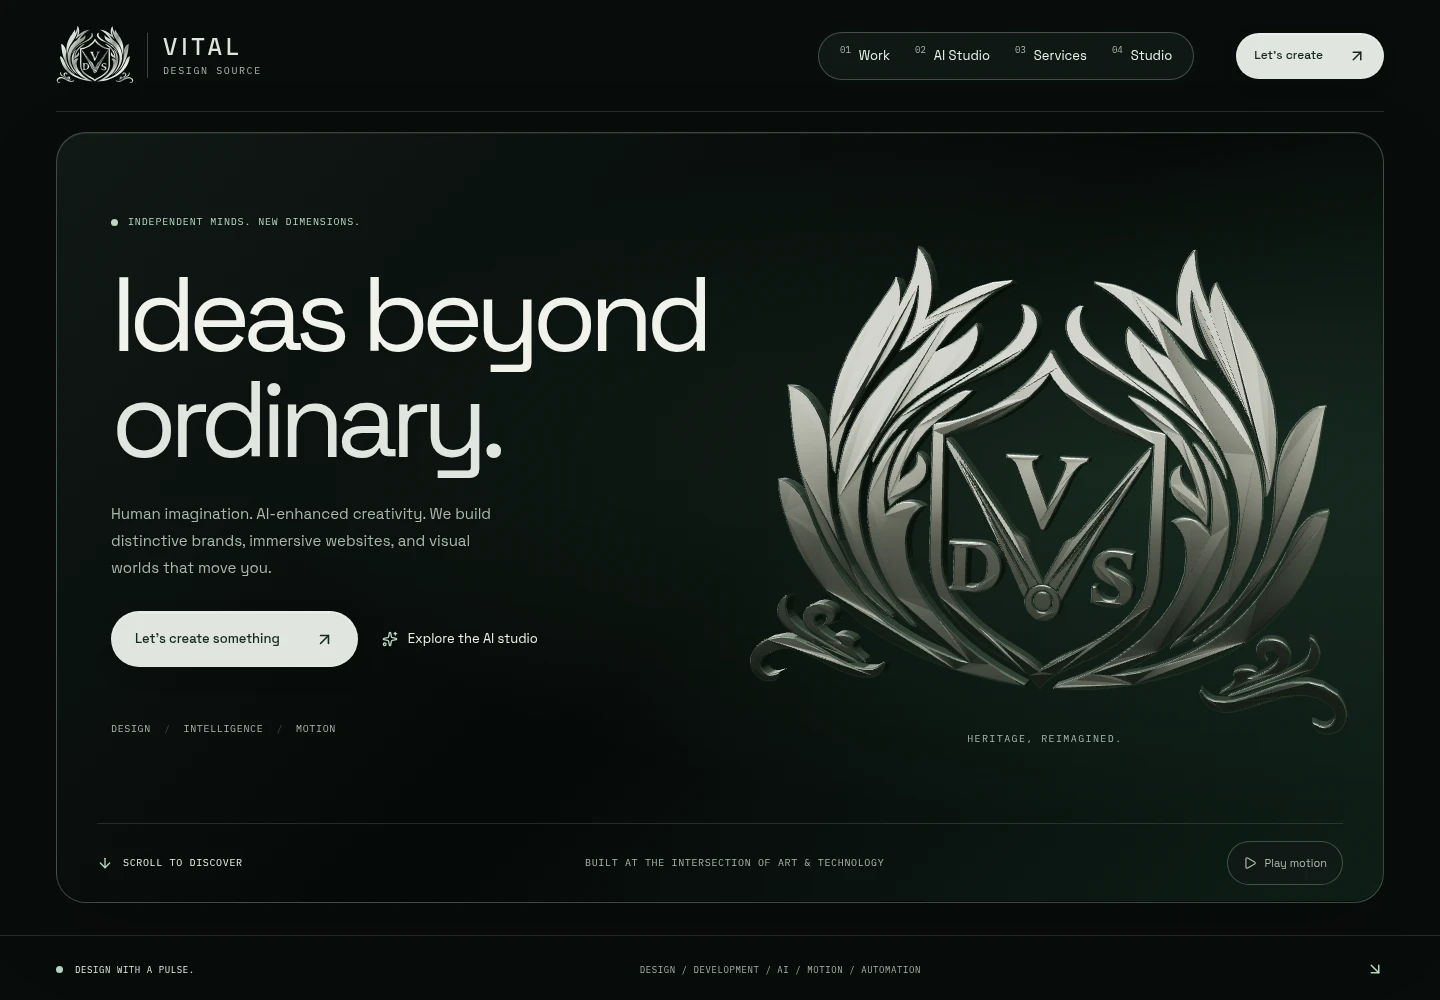
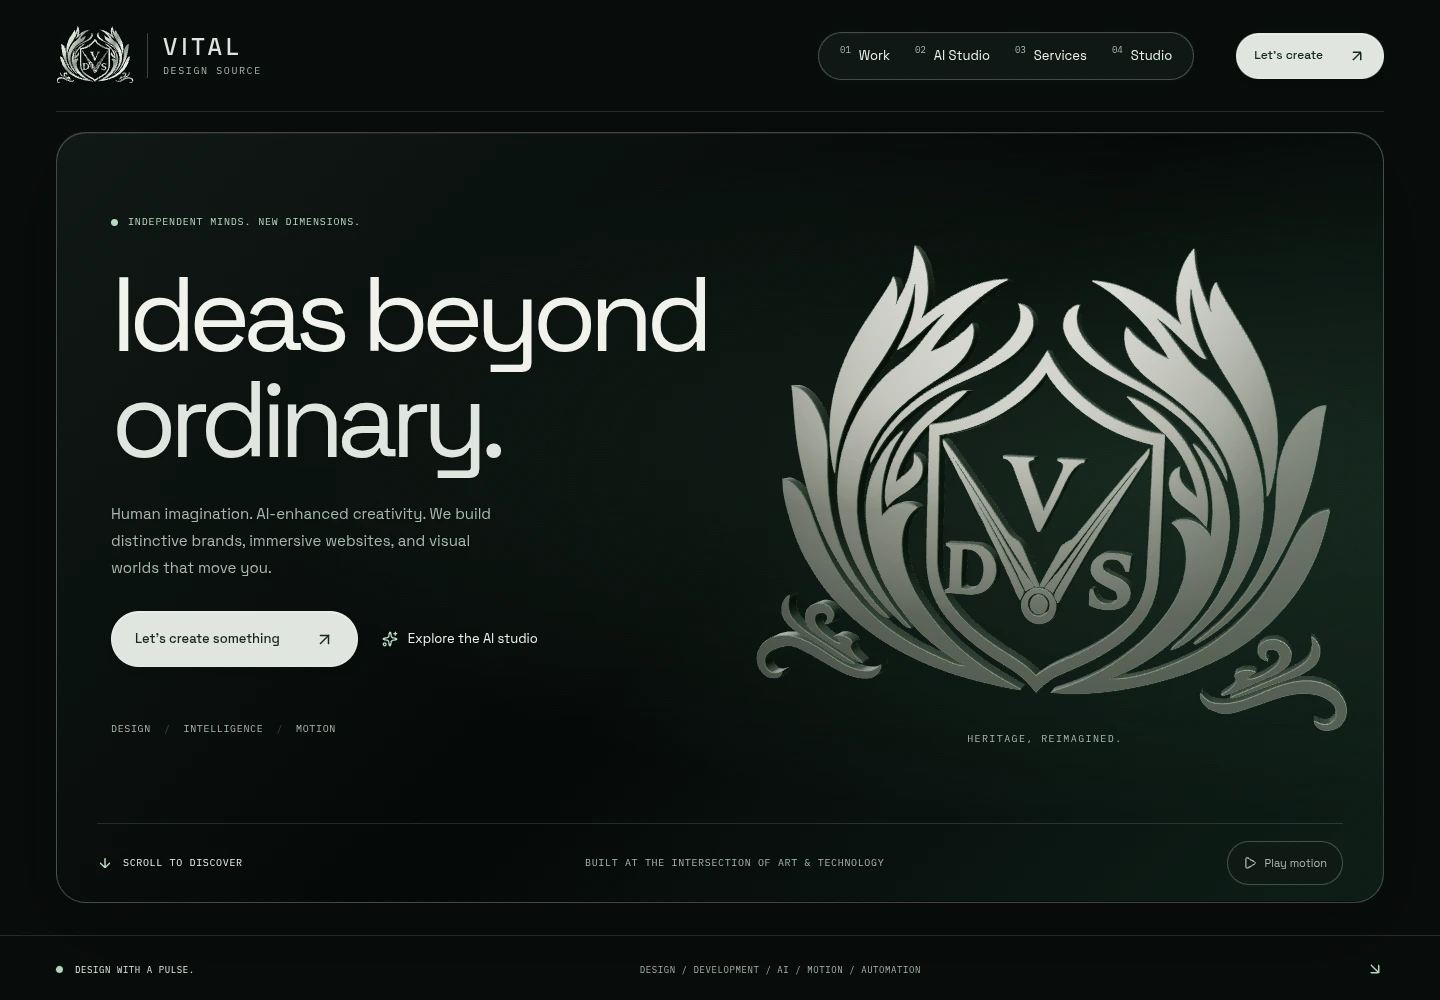
Refine metallic crest surfaces and high-density rendering

Changed region(s): [[0.5, 0.248, 0.9375, 0.744], [0.0625, 0.031, 0.0938, 0.093]]

diff --git a/src/lib/crest-scene.ts b/src/lib/crest-scene.ts
@@ -1,5 +1,6 @@
 import * as THREE from "three";
 import { SVGLoader } from "three/addons/loaders/SVGLoader.js";
+import { toCreasedNormals } from "three/addons/utils/BufferGeometryUtils.js";
 import geometry from "./crest-geometry.json";
 
 export interface CrestScene {
@@ -48,7 +49,6 @@ export function createCrestScene(
     antialias: true,
     powerPreference: "low-power",
   });
-  renderer.setPixelRatio(Math.min(window.devicePixelRatio, 1.5));
   renderer.setClearColor(0x000000, 0);
   renderer.outputColorSpace = THREE.SRGBColorSpace;
   renderer.toneMapping = THREE.ACESFilmicToneMapping;
@@ -66,14 +66,14 @@ export function createCrestScene(
   const crest = new THREE.Group();
   const face = new THREE.MeshStandardMaterial({
     color: 0xe2e5dc,
-    metalness: 1,
-    roughness: 0.2,
+    metalness: 0.92,
+    roughness: 0.28,
     envMapIntensity: 1.4,
   });
   const edge = new THREE.MeshStandardMaterial({
     color: 0x8b9a8d,
     metalness: 0.9,
-    roughness: 0.21,
+    roughness: 0.24,
     envMapIntensity: 1.4,
   });
   const svg = `<svg xmlns="http://www.w3.org/2000/svg" viewBox="${geometry.viewBox}">${geometry.paths
@@ -87,20 +87,49 @@ export function createCrestScene(
   for (const path of paths) {
     for (const shape of SVGLoader.createShapes(path)) {
       const meshGeometry = new THREE.ExtrudeGeometry(shape, {
-        depth: 35,
+        depth: 40,
         bevelEnabled: true,
-        bevelSegments: 3,
+        bevelSegments: 6,
         steps: 1,
-        bevelSize: 4,
-        bevelThickness: 5,
-        curveSegments: 5,
+        bevelSize: 2,
+        bevelThickness: 3.5,
+        curveSegments: 8,
       });
+      // Keep the caps planar. Bending sparse cap triangles creates visible
+      // specular seams; crease-aware normals soften bevels without rounding
+      // the intentional corners of the shield and feather tips.
+      const flatNormals = meshGeometry.getAttribute("normal").clone();
+      toCreasedNormals(meshGeometry, Math.PI / 3);
+      const normals = meshGeometry.getAttribute("normal");
       const positions = meshGeometry.getAttribute("position");
-      for (let vertex = 0; vertex < positions.count; vertex += 1) {
-        const x = positions.getX(vertex) - 708;
-        positions.setZ(vertex, positions.getZ(vertex) + (x * x) / 6500);
+      // Cap triangles must share one normal. Including their perimeter in the
+      // bevel smoothing would spread different edge normals across large faces.
+      for (const group of meshGeometry.groups) {
+        if (group.materialIndex !== 0) continue;
+        for (
+          let vertex = group.start;
+          vertex < group.start + group.count;
+          vertex++
+        ) {
+          normals.setXYZ(
+            vertex,
+            flatNormals.getX(vertex),
+            flatNormals.getY(vertex),
+            flatNormals.getZ(vertex),
+          );
+        }
       }
-      meshGeometry.computeVertexNormals();
+      // A continuous, shallow crown in the shading gives the silver broad
+      // reflections. Unlike a vertex displacement, it cannot crease the cap
+      // into the long triangles produced by a detailed heraldic outline.
+      const normal = new THREE.Vector3();
+      for (let vertex = 0; vertex < positions.count; vertex++) {
+        normal.fromBufferAttribute(normals, vertex);
+        normal.x -= ((positions.getX(vertex) - 708) / 2400) * normal.z;
+        normal.y += ((positions.getY(vertex) - 555) / 12000) * normal.z;
+        normal.normalize();
+        normals.setXYZ(vertex, normal.x, normal.y, normal.z);
+      }
       meshes.push(meshGeometry);
       crest.add(new THREE.Mesh(meshGeometry, [face, edge]));
     }
@@ -180,6 +209,15 @@ export function createCrestScene(
     width = bounds.width;
     height = bounds.height;
     if (!width || !height) return;
+    // Resolve fine heraldic details on Retina screens while bounding fill cost
+    // on large displays. Work is still rendered only while the pose changes.
+    renderer.setPixelRatio(
+      Math.min(
+        window.devicePixelRatio,
+        2.5,
+        Math.sqrt(2_400_000 / (width * height)),
+      ),
+    );
     renderer.setSize(width, height);
     camera.aspect = width / height;
     // Retain the full wing span at narrow aspect ratios.

diff --git a/tests/e2e/crest.spec.ts b/tests/e2e/crest.spec.ts
@@ -67,3 +67,79 @@ test("respects reduced motion and supports optional 3D rendering and context los
     await expect(crest).toHaveAttribute("data-renderer", "vector");
   }
 });
+
+test("resolves a Retina crest clearly and bounds its framebuffer after resize", async ({
+  browser,
+  baseURL,
+}, testInfo) => {
+  test.skip(
+    testInfo.project.name !== "desktop",
+    "This independent high-density context only needs to run once.",
+  );
+  const context = await browser.newContext({
+    baseURL,
+    viewport: { width: 390, height: 844 },
+    deviceScaleFactor: 3,
+    reducedMotion: "reduce",
+  });
+  try {
+    const page = await context.newPage();
+    const errors: string[] = [];
+    page.on("pageerror", (error) => errors.push(error.message));
+    await page.goto("/");
+    const available = await page.evaluate(() =>
+      Boolean(document.createElement("canvas").getContext("webgl2")),
+    );
+    test.skip(!available, "WebGL 2 is unavailable in this browser.");
+
+    const crest = page.locator(".crest-sculpture");
+    await crest.scrollIntoViewIfNeeded();
+    await expect(crest).toHaveAttribute("data-renderer", "webgl");
+    await expect(crest).toHaveAttribute("data-motion", "paused");
+    const canvas = crest.locator("canvas");
+    const framebuffer = () =>
+      canvas.evaluate((element: HTMLCanvasElement) => {
+        const gl = element.getContext("webgl2");
+        if (!gl) throw new Error("The crest has no WebGL 2 context.");
+        const bounds = element.getBoundingClientRect();
+        return {
+          width: gl.drawingBufferWidth,
+          height: gl.drawingBufferHeight,
+          cssWidth: bounds.width,
+          cssHeight: bounds.height,
+          contextLost: gl.isContextLost(),
+          error: gl.getError(),
+          overflow: document.documentElement.scrollWidth - window.innerWidth,
+        };
+      });
+
+    const mobile = await framebuffer();
+    // Fine vector strokes need more than two physical pixels per CSS pixel.
+    expect(mobile.width / mobile.cssWidth).toBeGreaterThan(2);
+    expect(mobile.height / mobile.cssHeight).toBeGreaterThan(2);
+    expect(mobile.contextLost).toBe(false);
+    expect(mobile.error).toBe(0);
+    expect(mobile.overflow).toBeLessThanOrEqual(1);
+
+    await page.setViewportSize({ width: 1440, height: 1000 });
+    await crest.scrollIntoViewIfNeeded();
+    await expect
+      .poll(() =>
+        canvas.evaluate((element: HTMLCanvasElement) => element.width),
+      )
+      .toBeGreaterThan(mobile.width);
+    const desktop = await framebuffer();
+    expect(desktop.cssWidth).toBeGreaterThan(mobile.cssWidth);
+    expect(desktop.width).toBeGreaterThan(desktop.cssWidth);
+    expect(desktop.height).toBeGreaterThan(desktop.cssHeight);
+    expect(desktop.width * desktop.height).toBeLessThanOrEqual(2_400_000);
+    expect(desktop.contextLost).toBe(false);
+    expect(desktop.error).toBe(0);
+    expect(desktop.overflow).toBeLessThanOrEqual(1);
+    await expect(crest).toHaveAttribute("data-renderer", "webgl");
+    await expect(crest).toHaveAttribute("data-motion", "paused");
+    expect(errors).toEqual([]);
+  } finally {
+    await context.close();
+  }
+});

diff --git a/docs/validation.md b/docs/validation.md
@@ -27,6 +27,8 @@ Validated October 18, 2026 in Node.js 24.19.0 with headless Chromium.
 
 - Eight-project portfolio: added OceanEmber and 7 Seas Trading while retaining all six previous entries and assets. OceanEmber uses an actual October 18 public website capture and responsive AVIF/WebP derivatives. Both the apex and www 7 Seas Trading URLs returned HTTP 403; its supplied external link is retained with an explicitly labeled typographic project cover, without a fabricated website screenshot, Detail crop, or visual-study claims. TypeScript, lint, all 40 API/configuration tests, the production build, and all 31 desktop/mobile browser checks passed (one intentional desktop skip). Browser checks cover all eight secure destinations, image decoding, filter counts, JSON-LD ordering, source disclosures, and catalog wrap navigation. Additional cover-dialog axe checks at 1440px, 390px, and 320px reported no violations; gallery, list, and dialog widths showed no horizontal overflow, and disclosures remained visible. The new cards and mobile cover dialog were visually reviewed. The clean production-only Hostinger managed-loader deployment check passed again. Formatting and whitespace checks passed.
 
+- Crest rendering refinement: preserved the original crest assets and checked-in vector geometry while removing the post-triangulation bow that exposed diagonal cap facets. Planar caps, independently restored cap normals, crease-smoothed six-segment bevels, a continuous shallow crown in the shading, and a softer silver finish replace the rough highlights. Outline tessellation increased modestly from five to eight segments. The renderer now recomputes density on resize up to 2.5 device pixels per CSS pixel, bounded by a 2.4-megapixel drawing buffer; its 30fps ceiling, sleep behavior, pause control, reduced-motion startup, and SVG/context-loss fallbacks remain in place. Strict types, lint, all 40 API/configuration tests, production build, and 32 browser checks passed, with two intentional project-specific skips. The new DPR-3 regression checks fine mobile resolution, resizing to desktop, the framebuffer budget, valid WebGL state, and overflow. Before/after review at 390px/DPR3 and 1440px/DPR2 confirmed smoother feather/shield faces and legible V/D/S lettering without the earlier diagonal highlights. Instrumented rendering confirmed that pointer movement changes the crest, Pause leaves pixels and draw counts unchanged, reduced-motion starts paused, and initial-rest/offscreen states stop drawing. Post-movement settling exceeded the software-GPU observation window; the unchanged settling condition remains in the source. Refreshed retained desktop and mobile hero previews include the full crest. No new dependency or deployment configuration is required.
+
 External destinations were read with TLS verification enabled. Aetherica, Hidden Forces, Astera, Sky Mathis, and Three Magi Press returned public responses. The old 3 Magi domain redirects to `threemagipress.com`. Hidden Forces has a private release gate. The reference’s `pigeonshield.com` returns bot protection; the owner’s source identifies `pigeonshield.net` as canonical. That matching public website returned 200 and is used for the final link. The public repository supplies its labeled source preview. No gates were solved or credentials submitted.
 
 Real SMTP delivery (no mail credentials were supplied) and the optional Docker image were not exercised. Public HTTPS, content, assets, and the health endpoint were verified on the existing Hostinger deployment before the redesign. No valid inquiry was submitted to the live site; persistence and submission checks use disposable local databases. The default production entry targets `https://vitaldesignsource.com` without application environment settings. See `docs/deployment.md` for deployment and optional email configuration.

diff --git a/docs/assets.md b/docs/assets.md
@@ -33,11 +33,13 @@ Run `npm run assets:brand` to regenerate the exports from the checked-in crest a
 
 The hero uses `src/components/CrestSculpture.tsx` and the code-split `src/lib/crest-scene.ts` to turn the checked-in `crest-geometry.json` paths into actual Three.js extruded, beveled meshes. Silver faces and green-tinted edges preserve the refined shield and wings as a dimensional identity. The scene does not use the earlier concept artwork as a substitute for the crest.
 
+Cap triangles stay geometrically planar to avoid visible triangulation seams in broad silver reflections. Crease-aware smoothing applies to the six-segment bevels, while cap normals are restored independently. A continuous, shallow crown in the surface normals gives the metal softer reflections without bending the cap triangles or changing the checked-in vector paths. Outline tessellation uses a modest `curveSegments: 8`.
+
 The reflective studio environment is generated locally from a canvas gradient and light panels, then filtered through Three.js’s PMREM environment generator. Key, rim, and hemisphere lights complete the scene. No external environment map, texture, model, or image request is required for this rendering.
 
 The static silver SVG remains visible on first paint and until the optional WebGL scene has rendered. The scene module is loaded dynamically; data-saving connections skip that enhancement. Failed loading or unavailable WebGL leaves the SVG in place, and context loss restores it. Normal builds use the committed vector geometry and require no tracing or Python step.
 
-When motion is enabled, pointer position gently changes the crest’s orientation and its key and rim lighting. Animation is limited to 30 frames per second, with device pixel ratio capped at 1.5. The hero’s pause control stops pointer-driven motion; the initial state respects the system reduced-motion preference and remains stationary until motion is enabled. The renderer sleeps once the pointer settles, suspends animation while offscreen or while the document is hidden, and releases its geometry, materials, environment, and renderer resources on unmount.
+When motion is enabled, pointer position gently changes the crest’s orientation and its key and rim lighting. Animation is limited to 30 frames per second. On resize, rendering density is recomputed as `min(devicePixelRatio, 2.5, sqrt(2,400,000 / (width × height)))`, using the crest element’s CSS width and height. This resolves fine heraldic details on high-density screens while keeping the drawing buffer within a 2.4-megapixel budget on larger displays. The hero’s pause control stops pointer-driven motion; the initial state respects the system reduced-motion preference and remains stationary until motion is enabled. The renderer sleeps once the pointer settles, suspends animation while offscreen or while the document is hidden, and releases its geometry, materials, environment, and renderer resources on unmount.
 
 ## AI concept artwork
 

diff --git a/README.md b/README.md
@@ -60,7 +60,7 @@ CI also runs `npm run test:deployment`: a disposable production-only install tha
 
 - `src/components/`: accessible page sections and interactions.
 - `src/components/DesignLab.tsx`: curated visual-direction explorer with selection controls, live brief updates, and a motion toggle.
-- `src/components/CrestSculpture.tsx` and `src/lib/crest-scene.ts`: optional, dynamically loaded Three.js crest with actual vector extrusion, local studio reflections, and pointer-responsive lighting. The SVG appears immediately and remains the fallback without WebGL. Rendering targets 30fps, caps pixel density at 1.5, and sleeps when the pointer settles, offscreen, when hidden, or when motion is disabled. Hero and Design Lab controls respect reduced motion.
+- `src/components/CrestSculpture.tsx` and `src/lib/crest-scene.ts`: optional, dynamically loaded Three.js crest with actual vector extrusion, planar caps, smoothed bevels, local studio reflections, and pointer-responsive lighting. The SVG appears immediately and remains the fallback without WebGL. Rendering targets 30fps, adapts pixel density up to 2.5 within a 2.4-megapixel buffer budget, and sleeps when the pointer settles, offscreen, when hidden, or when motion is disabled. Hero and Design Lab controls respect reduced motion.
 - `src/components/ProjectShowcase.tsx` and `src/lib/project-studies.ts`: accessible showcases for eight projects, with factual visual studies, full/detail views where a preview is available, a disclosed cover for 7 Seas Trading, and external-site links.
 - `src/components/BrandCrest.tsx`: inline SVG navigation crest with unique IDs, a visible filled base, a brief reveal and highlight, hover interaction, and static reduced-motion styling.
 - `src/lib/content.ts`: project destinations, descriptions, service copy, and form options.
